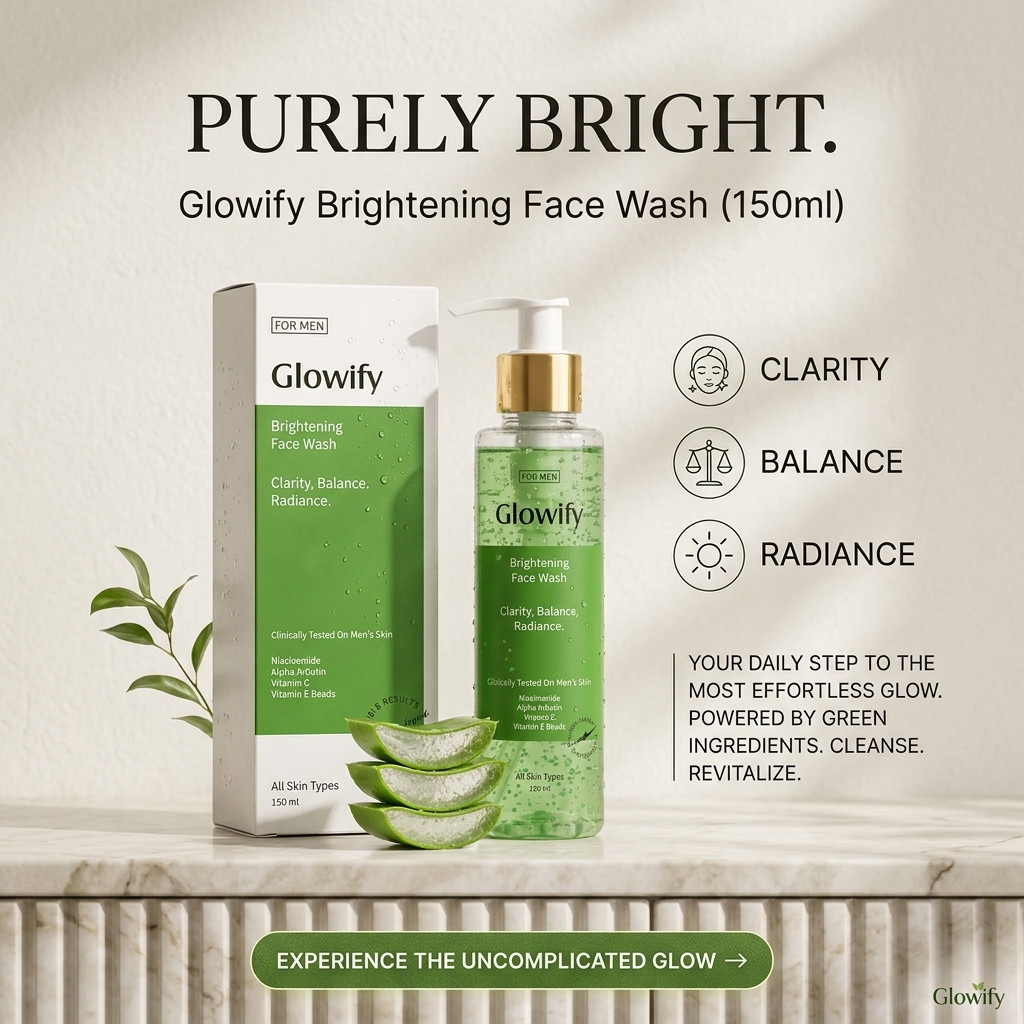
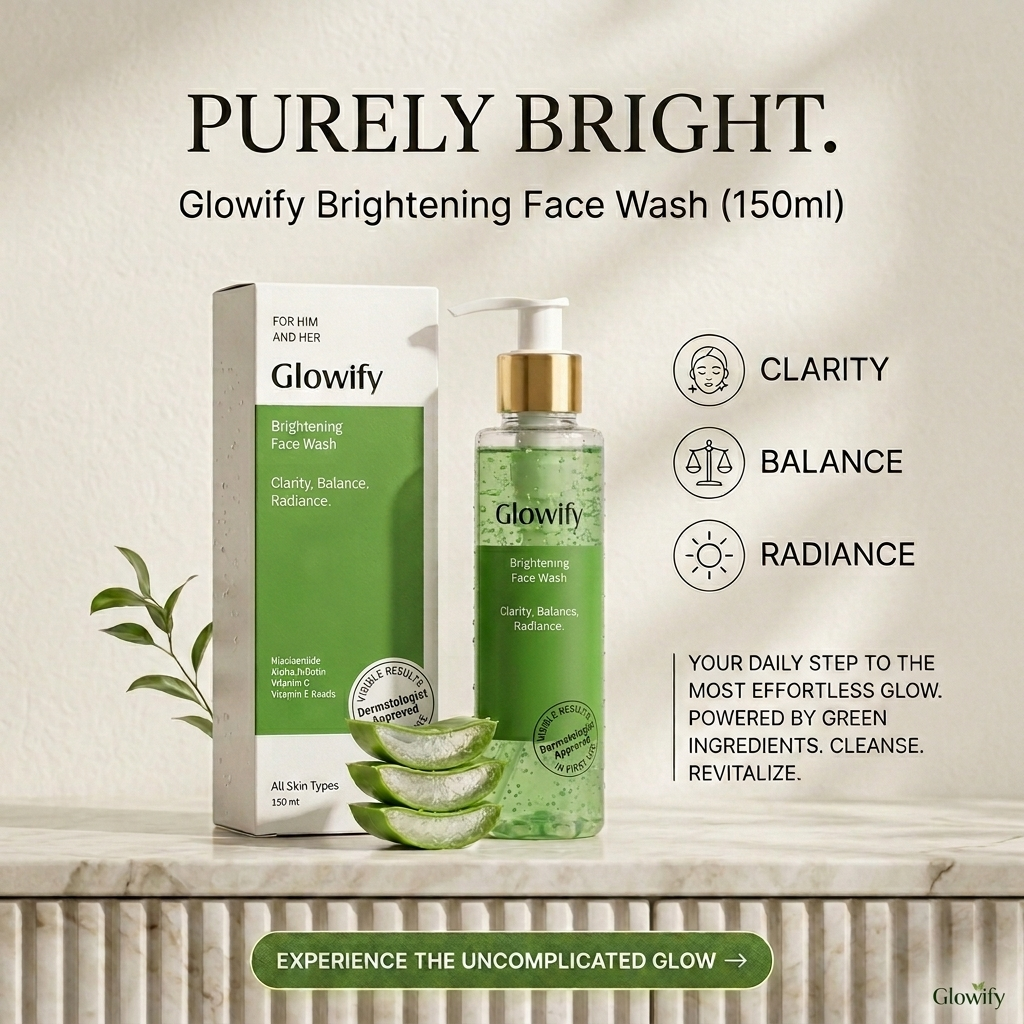
images changed

diff --git a/components/boty/header.tsx b/components/boty/header.tsx
@@ -32,17 +32,18 @@ export function Header() {
             >
               Buy Now
             </Link>
-            <Link
-              href="/about"
-              className="text-sm tracking-wide text-foreground/70 hover:text-foreground boty-transition"
-            >
-              About
-            </Link>
+            
             <Link
               href="/about/ingredients"
               className="text-sm tracking-wide text-foreground/70 hover:text-foreground boty-transition"
             >
               Ingredients
+            </Link>
+            <Link
+              href="/about"
+              className="text-sm tracking-wide text-foreground/70 hover:text-foreground boty-transition"
+            >
+              About
             </Link>
           </div>
 
@@ -87,22 +88,23 @@ export function Header() {
         >
           <div className="flex flex-col gap-4 pt-4 border-t border-border/50">
             <Link
-              href="/shop"
+              href="/product/glowify-brightening-face-wash"
               className="text-sm tracking-wide text-foreground/70 hover:text-foreground boty-transition"
             >
-              Shop
+              Buy Now
+            </Link>
+            
+            <Link
+              href="/about/ingredients"
+              className="text-sm tracking-wide text-foreground/70 hover:text-foreground boty-transition"
+            >
+              Ingredients
             </Link>
             <Link
               href="/about"
               className="text-sm tracking-wide text-foreground/70 hover:text-foreground boty-transition"
             >
               About
-            </Link>
-            <Link
-              href="/about/ingredients"
-              className="text-sm tracking-wide text-foreground/70 hover:text-foreground boty-transition"
-            >
-              Ingredients
             </Link>
             <Link
               href="/contact"